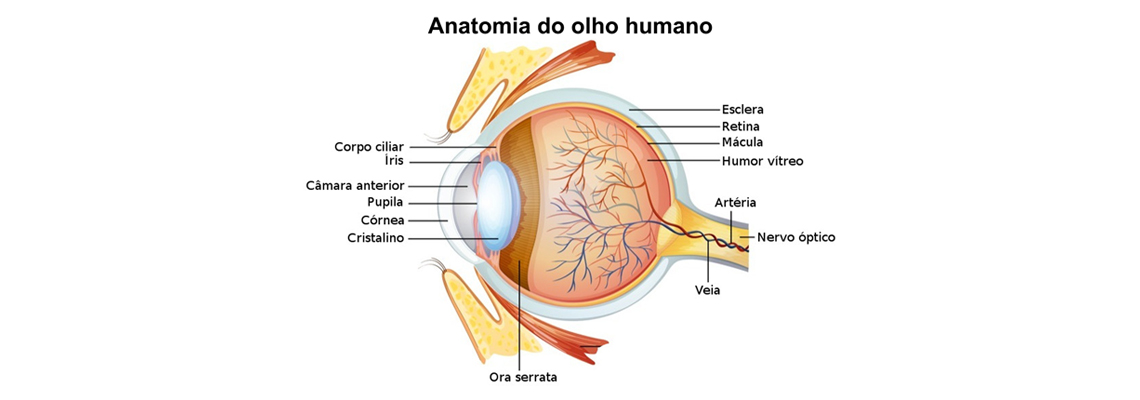
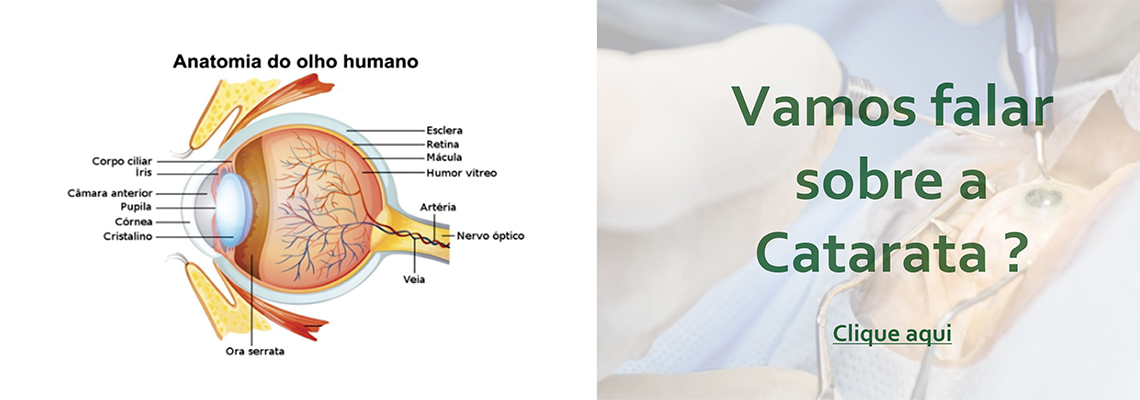
update

diff --git a/catarata.html b/catarata.html
@@ -13,9 +13,9 @@ layout: default
 <div class="row presentation-container" style="background: #fff;">
   <div class="col-sm-12 about-us-text wow fadeInLeft animated">
     <div class="col-xs-12 col-sm-8 col-sm-offset-2 text-justify "><br/>
-    	<div class="col-xs-6">
+        <div class="col-xs-6">
 
-			Nos nossos olhos, existe uma estrutura chamada “cristalino” que é totalmente translúcida. Este cristalino
+            Nos nossos olhos, existe uma estrutura chamada “cristalino” que é totalmente translúcida. Este cristalino
             funciona como uma lente dentro dos nossos olhos proporcionando foco da visão para longe ou para perto.
             Com o passar do tempo, este cristalino começa a deixar de ser transparente e passa a ser opaco, aí passa
             a ser chamado de “Catarata”. A catarata é o cristalino que se opacificou. Com isso, a visão começa a
@@ -25,40 +25,117 @@ layout: default
             opacidade, já há uma leve perda da transparência, porém, só denomina-se catarata quando a opacidade
             fica mais acentuada causando perda ou desconforto da visão.
 
-    		<h4>Agora que entendemos, queremos a solução!</h4>
+            <h4>Agora que entendemos, queremos a solução!</h4>
 
-			A única solução definitiva para a catarata é o procedimento cirúrgico. A cirurgia será indicada pelo
-			seu Oftalmologista de acordo com a sua queixa e exames realizados. Esta cirurgia consiste em remover
-			o cristalino opaco (catarata) através de uma microincisão (que não requer sutura) e a seguir, será
-			necessário o implante de uma lente que substituirá o seu cristalino, ou seja, uma lente intraocular.
+            A única solução definitiva para a catarata é o procedimento cirúrgico. A cirurgia será indicada pelo
+            seu Oftalmologista de acordo com a sua queixa e exames realizados. Esta cirurgia consiste em remover
+            o cristalino opaco (catarata) através de uma microincisão (que não requer sutura) e a seguir, será
+            necessário o implante de uma lente que substituirá o seu cristalino, ou seja, uma lente intraocular.
 
-    	</div>
-    	<div class="col-xs-6">
-    		<h4 style="margin-top: 0;">A tecnologia da cirurgia vem evoluindo e nós somo os maiores beneficiados.</h4>
+        </div>
+        <div class="col-xs-6">
+            <h4 style="margin-top: 0;">A tecnologia da cirurgia vem evoluindo e nós somo os maiores beneficiados.</h4>
 
-			O grau desta lente intra-ocular é obtido através de exames que indicarão o grau ideal para cada um, ou
+            O grau desta lente intra-ocular é obtido através de exames que indicarão o grau ideal para cada um, ou
             seja, é uma lente totalmente personalizada. Com esta lente, podemos corrigir o grau utilizado
             anteriormente para longe (óculos) e até mesmo o grau de perto, sendo possível estar praticamente livre
             dos óculos após a cirurgia.
 
-    		<h4>Importante saber que:</h4>
+            <h4>Importante saber que:</h4>
 
-			Raramente a catarata pode ser percebida a olho nu. Isto só ocorre quando ela está muito avançada (madura).
+            Raramente a catarata pode ser percebida a olho nu. Isto só ocorre quando ela está muito avançada (madura).
 
-    		<h4>Muitas pessoas confundem catarata com Pterígeo.</h4>
+            <h4>Muitas pessoas confundem catarata com Pterígeo.</h4>
 
-			Portanto é importante ressaltar que o que é popularmente denominado de catarata, trata-se na verdade de pterígio,
-			que é a outra patologia e que nada tem a ver com a catarata de fato.
-    	<br/><br/>
-    		<span class="col-xs-12 col-sm-6 text-center">
-    			<img class="img-responsive img-rounded img-thumbnail center-block" 	 src="assets/img/images/cataratamadura.jpg">
-    			<p class="caption">Catarata Madura</p>
-    		</span>
+            Portanto é importante ressaltar que o que é popularmente denominado de catarata, trata-se na verdade de pterígio,
+            que é a outra patologia e que nada tem a ver com a catarata de fato.<br>
+            <a href="http://g1.globo.com/bemestar/noticia/2016/02/oftalmologistas-falam-sobre-catarata-o-que-causa-e-tipos-de-tratamentos.html" target="_blank" style="font-size: 14px;"><strong>“Quer saber mais?”</strong></a>
+            <br/><br/>
+            <span class="col-xs-12 col-sm-6 text-center">
+                <img class="img-responsive img-rounded img-thumbnail center-block" src="assets/img/images/cataratamadura.jpg">
+                <p class="caption">Catarata Madura</p>
+            </span>
 
-    		<span class="col-xs-12 col-sm-6 text-center">
-    			<img class="img-responsive img-rounded img-thumbnail center-block" src="assets/img/images/pterigio.jpg">
-    			<p class="caption">Pterígio</p>
-    		</span>
+            <span class="col-xs-12 col-sm-6 text-center">
+                <img class="img-responsive img-rounded img-thumbnail center-block" src="assets/img/images/pterigio.jpg">
+                <p class="caption">Pterígio</p>
+            </span>
+        </div>
+    </div>
+  </div>
+  <div class="row" style="background: #fff;">
+    <div class="col-sm-12 about-us-text wow fadeInLeft animated">
+      <h1>Os benefícios das lentes intraoculares</h1><br/>
+    </div>
+  </div>
+</div>
+<br/>
+<div class="row presentation-container" style="background: #fff;">
+  <div class="col-sm-12 about-us-text wow fadeInLeft animated">
+    <div class="col-xs-12 col-sm-8 col-sm-offset-2 text-justify "><br/>
+    	<div class="col-xs-6">
+
+			Criadas há mais de 60 anos, as lentes intraoculares
+            evoluíram de forma rápida e hoje proporcionam
+            a melhoria da visão dos portadores de catarata,
+            além da dispensa do uso de óculos para alguns deles.
+            <br><br>
+            A catarata é a maior causa de cegueira evitável do Brasil.
+            Doença comum entre os idosos, a catarata é a opacificação
+            da lente natural dos olhos, chamada cristalino. O tratamento
+            é cirúrgico e consiste na retirada da lente natural dos olhos
+            para a colocação de uma lente intraocular artificial.
+            <br><br>
+    		Antes do surgimento das lentes
+            intraoculares, a cirurgia de catarata
+            se resumia à retirada da lente
+            natural do olho. Depois da
+            cirurgia, os pacientes precisavam
+            fazer uso de óculos com lentes
+            grossas, de alto grau, para suprir
+            a deficiência causada pela retirada do cristalino.
+            <br><br>
+            Assim que as lentes intraoculares surgiram, os médicos
+            enfrentaram o desafio de fixar a prótese no local correto.
+            Quando este foi solucionado, a preocupação passou a ser o
+            tamanho da incisão, que tornava o pós-operatório longo.
+            <br><br>
+            Hoje, a realidade é outra. A facoemulsifi cação, técnica que
+            surgiu na década de 60, tornou a cirurgia mais simples,
+            com um pós-operatório rápido. Nesta técnica, a catarata
+            é aspirada através de uma pequena incisão, que sequer
+            precisa de sutura. Atualmente, as lentes possuem a
+            estabilidade necessária e se fixam no local correto, e a
+            alta tecnologia usada na cirurgia tornou sua recuperação
+            mais rápida.           
+    	</div>        
+    	<div class="col-xs-6">
+            <span class="col-xs-12 col-md-6 text-center">
+                <img class="img-responsive img-rounded img-thumbnail center-block"   src="assets/img/images/lente-intraocula.jpg">
+            </span>
+    		Alcançado o objetivo inicial, de retirar o embaçamento da
+            visão, os avanços seguintes procuraram
+            agregar às lentes outros benefícios. Nos
+            anos 90, as lentes passaram a corrigir
+            erros de refração, nas chamadas lentes
+            monofocais, que solucionam problemas
+            de visão para longe ou para perto. E há
+            apenas cinco anos, chegaram ao Brasil
+            as lentes multifocais, que corrigem os
+            problemas de visão tanto para perto,
+            quanto para longe.
+            <br><br>
+            Os que já realizaram a cirurgia e
+            possuem lentes, sem os benefícios da correção de grau,
+            podem optar pela mais nova lente intraocular: Sulcoflex®.
+            A lente Sulcoflex® é implantada numa região diferente da
+            primeira lente intraocular, e é indicada para aqueles que
+            ficaram com grau residual após a realização da cirurgia de
+            catarata.
+            <br><br>
+            A atual eficiência da cirurgia da catarata se deve à alta
+            tecnologia desenvolvida na Oftalmologia. 
+            <br><br>
     	</div>
     </div>
   </div>

diff --git a/index.html b/index.html
@@ -10,7 +10,7 @@ layout: default
           <img src="assets/img/images/slider1.jpg" width="100%" height="100%" alt="1">
         </div>
         <div class="item">
-          <img src="assets/img/images/slider2.jpg" width="100%" height="100%" alt="3">
+          <a href="/catarata.html"><img src="assets/img/images/slider2.jpg" width="100%" height="100%" alt="2"></a>
         </div>
         <div class="item">
           <img src="assets/img/images/slider3.jpg" width="100%" height="100%" alt="3">
@@ -32,7 +32,7 @@ layout: default
     <div class="subR col-xs-12 col-lg-6">
       <div class="col-xs-12 col-sm-6 col-lg-6">
         <div class="work wow flipInX">
-          <h3>ATENDIMENTO1</h3>
+          <h3>ATENDIMENTO</h3>
           <img src="assets/img/images/035.jpg" alt="Centro Óptico">
           <p>
           Oferecemos ambiente climatizado e o conforto adequado para que sua permanência seja a mais agradável possível. Temos uma equipe treinada para atendê-lo com a atenção e cordialidade. O oftalmologista é o médico especialista em diagnóstico e tratamento das doenças oculares. É o profissional que está apto a lhe oferecer adequadamente assistência desde a avaliação do seu grau (refração) ao tratamento de doenças e cirurgias. </p>
